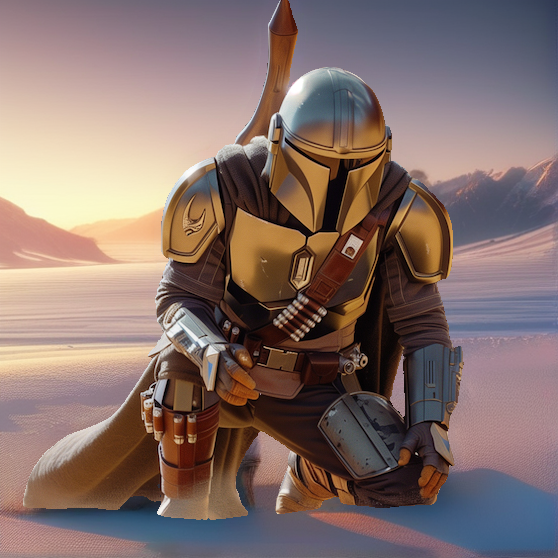
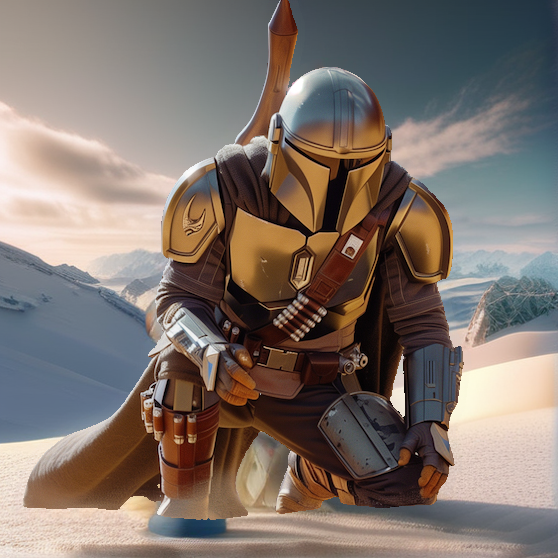
using ip-adapter

diff --git a/inference.py b/inference.py
@@ -141,6 +141,8 @@ if __name__ == "__main__":
         torch_dtype=torch.float16,
         use_safetensors=True
     )
+    pipe.load_ip_adapter("h94/IP-Adapter", subfolder="sdxl_models", weight_name="ip-adapter_sdxl.bin")
+    pipe.set_ip_adapter_scale(0.3)
     pipe.enable_model_cpu_offload()
 
 
@@ -149,6 +151,7 @@ if __name__ == "__main__":
         negative_prompt=args.negative_prompt,
         image=canny_image,
         controlnet_conditioning_scale=0.5,
+        ip_adapter_image = white_image
     ).images[0]
     sample_image = sample_image.resize((W, H))
     save_img(sample_image,  out_dir / "sample_image.png")

diff --git a/README.md b/README.md
@@ -1,5 +1,5 @@
 ## Background Inpainting
-This project utilizes Stable Diffusion XL, ControlNet, Grounding DINO, SAM (Segment Anything), and LAMA Inpaint to achieve seamless background replacement while preserving the integrity of the original elements.
+This project utilizes Stable Diffusion XL, ControlNet, IP-Adapter, Grounding DINO, SAM (Segment Anything), and LAMA Inpaint to achieve seamless background replacement while preserving the integrity of the original elements.
 
 <div align="center">
 <img src="assets/image.jpeg" width="20%" />
@@ -9,7 +9,7 @@ This project utilizes Stable Diffusion XL, ControlNet, Grounding DINO, SAM (Segm
 
 <img src="assets/grid_sample.png"/>
 
-Specifically, GroundingDINO is used to identify the object, which are then segmented with SAM. The background is inpainted using ControlNet and Stable Diffusion XL, and the foreground is removed via LAMA inpainting. At last, the identified object are copied and pasted into the newly generated background.
+Specifically, GroundingDINO is used to identify the object, which are then segmented with SAM. The background is inpainted using ControlNet and Stable Diffusion XL, with guidance from Canny edge detection and IP-Adapter, while the foreground is removed via LAMA inpainting. At last, the identified object are copied and pasted into the newly generated background.
 
 ## Installation
 
@@ -42,7 +42,7 @@ python inference.py \
     --input_img ./assets/image.jpeg \
     --output_dir ./output \
     --extract_prompt "person" \
-    --background_prompt "frozen landscape with a glacier in the background, snow and wind swirling through the air" \
+    --background_prompt "frozen landscape with a glacier in the background" \
     --negative_prompt "low quality, bad quality, sketches" \
     --ground_ckpt ./pretrained_models/groundingdino_swint_ogc.pth \
     --sam_ckpt ./pretrained_models/sam_vit_h_4b8939.pth \
@@ -50,4 +50,4 @@ python inference.py \
 ```
 
 ## Acknowledgement
-This code is based on [Diffusers](https://huggingface.co/docs/diffusers/using-diffusers/controlnet#controlnet-with-stable-diffusion-xl), [GroundingDINO](https://github.com/IDEA-Research/GroundingDINO), [SAM](https://github.com/facebookresearch/segment-anything), [Inpaint Anything](https://github.com/geekyutao/Inpaint-Anything), .
+This code is based on [Diffusers](https://huggingface.co/docs/diffusers/using-diffusers/controlnet#controlnet-with-stable-diffusion-xl), [IP-Adapter](https://github.com/tencent-ailab/IP-Adapter), [GroundingDINO](https://github.com/IDEA-Research/GroundingDINO), [SAM](https://github.com/facebookresearch/segment-anything), [Inpaint Anything](https://github.com/geekyutao/Inpaint-Anything).
